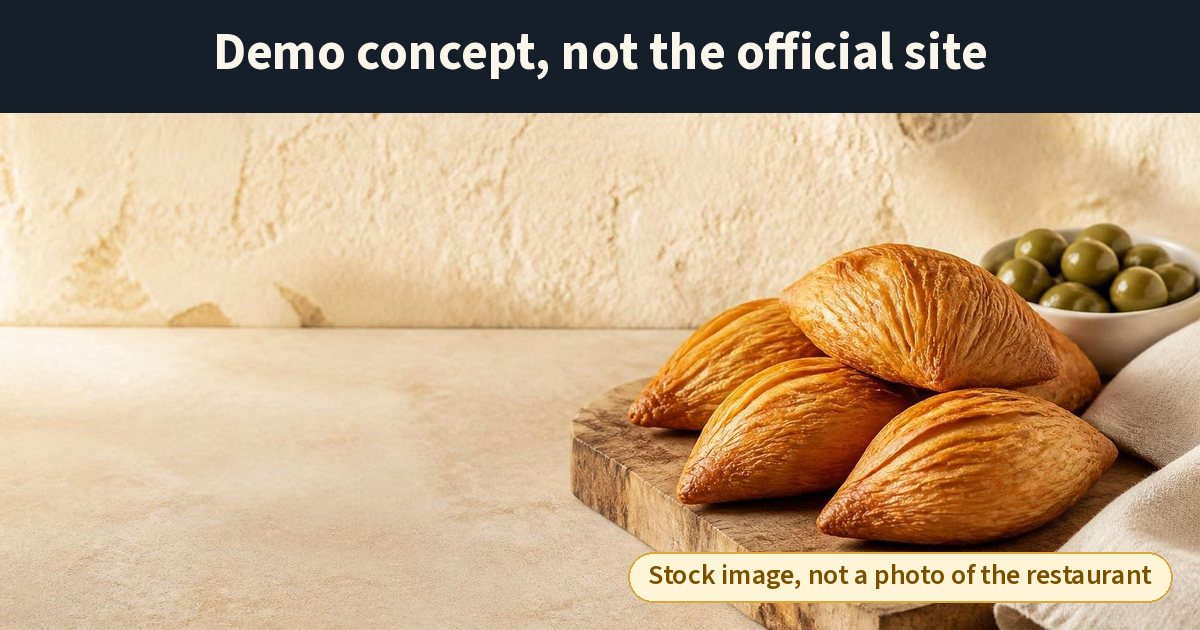
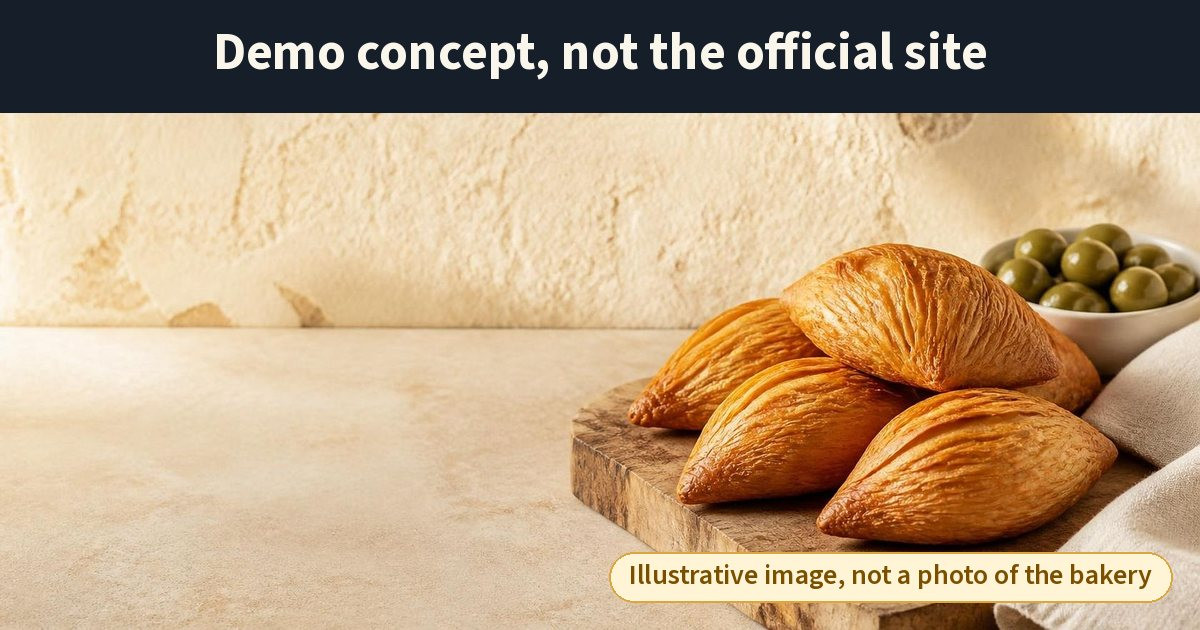
Label demo images as illustrative

Changed region(s): [[0.4933, 0.8746, 0.9558, 0.9651]]

diff --git a/index.html b/index.html
@@ -15,17 +15,17 @@
   <meta property="og:image:type" content="image/jpeg">
   <meta property="og:image:width" content="1200">
   <meta property="og:image:height" content="630">
-  <meta property="og:image:alt" content="Demo concept, not the official site. Golden, flaky diamond-shaped pastizzi on a rustic wooden board (stock image, not a photo of the restaurant)">
+  <meta property="og:image:alt" content="Demo concept, not the official site. Golden, flaky diamond-shaped pastizzi on a rustic wooden board (illustrative image, not a photo of the bakery)">
   <meta name="twitter:card" content="summary_large_image">
   <meta name="twitter:title" content="Nannu&#39;s Pastizzi | Maltese Bakery in Meadowvale, Mississauga (demo concept)">
   <meta name="twitter:description" content="Demo concept website for Nannu&#39;s Pastizzi, a Maltese bakery in Meadowvale, Mississauga — not the official site. Pastizzi, qassatat and Maltese sweets.">
   <meta name="twitter:image" content="https://mikelagumbay22.github.io/nannus-pastizzi-demo/img/og-image.jpg">
-  <meta name="twitter:image:alt" content="Demo concept, not the official site. Golden, flaky diamond-shaped pastizzi on a rustic wooden board (stock image, not a photo of the restaurant)">
+  <meta name="twitter:image:alt" content="Demo concept, not the official site. Golden, flaky diamond-shaped pastizzi on a rustic wooden board (illustrative image, not a photo of the bakery)">
   <meta name="robots" content="noindex, nofollow">
   <meta name="theme-color" content="#FBF6EC">
   <link rel="preload" href="fonts/fraunces-normal-latin.woff2" as="font" type="font/woff2" crossorigin>
   <link rel="preload" href="fonts/sourcesans3-normal-latin.woff2" as="font" type="font/woff2" crossorigin>
-  <link rel="stylesheet" href="css/site.css?v=4214463a">
+  <link rel="stylesheet" href="css/site.css?v=e4422915">
   <link rel="icon" href="img/favicon.ico" sizes="any">
   <link rel="icon" type="image/png" sizes="512x512" href="img/favicon-512.png">
   <link rel="apple-touch-icon" href="img/apple-touch-icon.png">
@@ -78,7 +78,7 @@
 
 <section class="hero" aria-labelledby="hero-title">
   <div class="hero__media">
-    <div class="media media--hero" style="--focus: 72% 60%; --focus-md: 45% 60%;"><span class="ph-badge stock-badge">Stock image, not a photo of the restaurant</span>
+    <div class="media media--hero" style="--focus: 72% 60%; --focus-md: 45% 60%;"><span class="ph-badge image-badge">Illustrative image, not a photo of the bakery</span>
   <img src="img/hero-800.webp" srcset="img/hero-480.webp 480w, img/hero-800.webp 800w, img/hero-1200.webp 1200w, img/hero-1600.webp 1600w" sizes="(min-width: 900px) 100vw, 92vw" width="1920" height="1080" alt="Golden, flaky diamond-shaped pastizzi on a rustic wooden board with a bowl of green olives" fetchpriority="high" decoding="async">
 </div>
   </div>
@@ -114,7 +114,7 @@
       <a class="text-link" href="about.html">Meet the Family<svg viewBox="0 0 24 24" fill="none" stroke="currentColor" stroke-width="1.8" stroke-linecap="round" stroke-linejoin="round" aria-hidden="true" focusable="false"><path d="M5 12h14M13 6l6 6-6 6"/></svg></a>
     </div>
     <div class="teaser-media">
-      <div class="media "><span class="ph-badge stock-badge">Stock image, not a photo of the restaurant</span>
+      <div class="media "><span class="ph-badge image-badge">Illustrative image, not a photo of the bakery</span>
   <img src="img/counter-800.webp" srcset="img/counter-480.webp 480w, img/counter-800.webp 800w, img/counter-1200.webp 1200w, img/counter-1456.webp 1456w" sizes="(min-width: 900px) 520px, 92vw" width="1456" height="1088" alt="A warm bakery counter with a glass display case of golden pastries and savoury pies" loading="lazy" decoding="async">
 </div>
     </div>
@@ -130,7 +130,7 @@
     </div>
     <ul class="dish-grid">
       <li class="dish-card">
-        <div class="media dish-card__media"><span class="ph-badge stock-badge">Stock image, not a photo of the restaurant</span>
+        <div class="media dish-card__media"><span class="ph-badge image-badge">Illustrative image, not a photo of the bakery</span>
   <img src="img/pastizzi-800.webp" srcset="img/pastizzi-480.webp 480w, img/pastizzi-800.webp 800w, img/pastizzi-1200.webp 1200w, img/pastizzi-1456.webp 1456w" sizes="(min-width: 900px) 360px, (min-width: 640px) 46vw, 92vw" width="1456" height="1088" alt="A plate of flaky Maltese pastizzi, one broken open to show ricotta and another with mushy pea filling" loading="lazy" decoding="async">
 </div>
         <div class="dish-card__body">
@@ -139,7 +139,7 @@
         </div>
       </li>
       <li class="dish-card">
-        <div class="media dish-card__media"><span class="ph-badge stock-badge">Stock image, not a photo of the restaurant</span>
+        <div class="media dish-card__media"><span class="ph-badge image-badge">Illustrative image, not a photo of the bakery</span>
   <img src="img/pastries-800.webp" srcset="img/pastries-480.webp 480w, img/pastries-800.webp 800w, img/pastries-1200.webp 1200w" sizes="(min-width: 900px) 360px, (min-width: 640px) 46vw, 92vw" width="1280" height="956" alt="Assorted Maltese pastries: qassatat, ricotta cannoli, date imqaret and pastizzi dusted with icing sugar" loading="lazy" decoding="async">
 </div>
         <div class="dish-card__body">
@@ -148,7 +148,7 @@
         </div>
       </li>
       <li class="dish-card">
-        <div class="media dish-card__media"><span class="ph-badge stock-badge">Stock image, not a photo of the restaurant</span>
+        <div class="media dish-card__media"><span class="ph-badge image-badge">Illustrative image, not a photo of the bakery</span>
   <img src="img/coffee-800.webp" srcset="img/coffee-480.webp 480w, img/coffee-800.webp 800w, img/coffee-1200.webp 1200w, img/coffee-1456.webp 1456w" sizes="(min-width: 900px) 360px, (min-width: 640px) 46vw, 92vw" width="1456" height="1088" alt="A cappuccino beside a single flaky pastizz on a rustic wooden café table" loading="lazy" decoding="async">
 </div>
         <div class="dish-card__body">
@@ -269,6 +269,6 @@
   <a class="btn btn--ghost" href="https://www.google.com/maps/search/?api=1&amp;query=Nannu%27s+Pastizzi%2C+6981+Millcreek+Dr%2C+Unit+1%2C+Mississauga%2C+ON+L5N+6B8&amp;query_place_id=ChIJreo7OGBqK4gRqdLR0AU75BI" target="_blank" rel="noopener"><svg viewBox="0 0 24 24" fill="none" stroke="currentColor" stroke-width="1.8" stroke-linecap="round" stroke-linejoin="round" aria-hidden="true" focusable="false"><path d="M20 10c0 6-8 12-8 12S4 16 4 10a8 8 0 0 1 16 0z"/><circle cx="12" cy="10" r="3"/></svg>Directions<span class="visually-hidden"> (opens Google Maps in a new tab)</span></a>
   <a class="btn btn--ghost" href="menu.html"><svg viewBox="0 0 24 24" fill="none" stroke="currentColor" stroke-width="1.8" stroke-linecap="round" stroke-linejoin="round" aria-hidden="true" focusable="false"><path d="M4 4.5A1.5 1.5 0 0 1 5.5 3H19v15H5.5A1.5 1.5 0 0 0 4 19.5z"/><path d="M4 19.5A1.5 1.5 0 0 0 5.5 21H19v-3M8 7h7M8 10.5h5"/></svg>Menu</a>
 </nav>
-<script src="js/site.js?v=4214463a" defer></script>
+<script src="js/site.js?v=e4422915" defer></script>
 </body>
 </html>

diff --git a/menu.html b/menu.html
@@ -15,17 +15,17 @@
   <meta property="og:image:type" content="image/jpeg">
   <meta property="og:image:width" content="1200">
   <meta property="og:image:height" content="630">
-  <meta property="og:image:alt" content="Demo concept, not the official site. Golden, flaky diamond-shaped pastizzi on a rustic wooden board (stock image, not a photo of the restaurant)">
+  <meta property="og:image:alt" content="Demo concept, not the official site. Golden, flaky diamond-shaped pastizzi on a rustic wooden board (illustrative image, not a photo of the bakery)">
   <meta name="twitter:card" content="summary_large_image">
   <meta name="twitter:title" content="Menu | Pastizzi, Qassatat &amp; Maltese Eats | Nannu&#39;s Pastizzi (demo concept)">
   <meta name="twitter:description" content="Demo concept website for Nannu&#39;s Pastizzi, a Maltese bakery in Meadowvale, Mississauga — not the official site. Sample menu and prices.">
   <meta name="twitter:image" content="https://mikelagumbay22.github.io/nannus-pastizzi-demo/img/og-image.jpg">
-  <meta name="twitter:image:alt" content="Demo concept, not the official site. Golden, flaky diamond-shaped pastizzi on a rustic wooden board (stock image, not a photo of the restaurant)">
+  <meta name="twitter:image:alt" content="Demo concept, not the official site. Golden, flaky diamond-shaped pastizzi on a rustic wooden board (illustrative image, not a photo of the bakery)">
   <meta name="robots" content="noindex, nofollow">
   <meta name="theme-color" content="#FBF6EC">
   <link rel="preload" href="fonts/fraunces-normal-latin.woff2" as="font" type="font/woff2" crossorigin>
   <link rel="preload" href="fonts/sourcesans3-normal-latin.woff2" as="font" type="font/woff2" crossorigin>
-  <link rel="stylesheet" href="css/site.css?v=4214463a">
+  <link rel="stylesheet" href="css/site.css?v=e4422915">
   <link rel="icon" href="img/favicon.ico" sizes="any">
   <link rel="icon" type="image/png" sizes="512x512" href="img/favicon-512.png">
   <link rel="apple-touch-icon" href="img/apple-touch-icon.png">
@@ -385,19 +385,19 @@
   <div class="container">
     <div class="section-head section-head--center">
       <p class="eyebrow">From the Oven</p>
-      <h2 id="gallery-title">A Taste of Malta</h2><p class="sample-note">Stock images for this demo, not photos of the restaurant or its food.</p>
+      <h2 id="gallery-title">A Taste of Malta</h2><p class="sample-note">Illustrative images for this demo, not photos of the bakery or its food.</p>
     </div>
     <ul class="gallery">
-      <li><div class="media "><span class="ph-badge stock-badge">Stock image, not a photo of the restaurant</span>
+      <li><div class="media "><span class="ph-badge image-badge">Illustrative image, not a photo of the bakery</span>
   <img src="img/pastizzi-800.webp" srcset="img/pastizzi-480.webp 480w, img/pastizzi-800.webp 800w, img/pastizzi-1200.webp 1200w, img/pastizzi-1456.webp 1456w" sizes="(min-width: 1080px) 280px, (min-width: 640px) 46vw, 92vw" width="1456" height="1088" alt="A plate of flaky Maltese pastizzi, one broken open to show ricotta and another with mushy pea filling" loading="lazy" decoding="async">
 </div></li>
-      <li><div class="media "><span class="ph-badge stock-badge">Stock image, not a photo of the restaurant</span>
+      <li><div class="media "><span class="ph-badge image-badge">Illustrative image, not a photo of the bakery</span>
   <img src="img/pastries-800.webp" srcset="img/pastries-480.webp 480w, img/pastries-800.webp 800w, img/pastries-1200.webp 1200w" sizes="(min-width: 1080px) 280px, (min-width: 640px) 46vw, 92vw" width="1280" height="956" alt="Assorted Maltese pastries: qassatat, ricotta cannoli, date imqaret and pastizzi dusted with icing sugar" loading="lazy" decoding="async">
 </div></li>
-      <li><div class="media "><span class="ph-badge stock-badge">Stock image, not a photo of the restaurant</span>
+      <li><div class="media "><span class="ph-badge image-badge">Illustrative image, not a photo of the bakery</span>
   <img src="img/coffee-800.webp" srcset="img/coffee-480.webp 480w, img/coffee-800.webp 800w, img/coffee-1200.webp 1200w, img/coffee-1456.webp 1456w" sizes="(min-width: 1080px) 280px, (min-width: 640px) 46vw, 92vw" width="1456" height="1088" alt="A cappuccino beside a single flaky pastizz on a rustic wooden café table" loading="lazy" decoding="async">
 </div></li>
-      <li><div class="media "><span class="ph-badge stock-badge">Stock image, not a photo of the restaurant</span>
+      <li><div class="media "><span class="ph-badge image-badge">Illustrative image, not a photo of the bakery</span>
   <img src="img/counter-800.webp" srcset="img/counter-480.webp 480w, img/counter-800.webp 800w, img/counter-1200.webp 1200w, img/counter-1456.webp 1456w" sizes="(min-width: 1080px) 280px, (min-width: 640px) 46vw, 92vw" width="1456" height="1088" alt="A warm bakery counter with a glass display case of golden pastries and savoury pies" loading="lazy" decoding="async">
 </div></li>
     </ul>
@@ -459,6 +459,6 @@
   <a class="btn btn--ghost" href="https://www.google.com/maps/search/?api=1&amp;query=Nannu%27s+Pastizzi%2C+6981+Millcreek+Dr%2C+Unit+1%2C+Mississauga%2C+ON+L5N+6B8&amp;query_place_id=ChIJreo7OGBqK4gRqdLR0AU75BI" target="_blank" rel="noopener"><svg viewBox="0 0 24 24" fill="none" stroke="currentColor" stroke-width="1.8" stroke-linecap="round" stroke-linejoin="round" aria-hidden="true" focusable="false"><path d="M20 10c0 6-8 12-8 12S4 16 4 10a8 8 0 0 1 16 0z"/><circle cx="12" cy="10" r="3"/></svg>Directions<span class="visually-hidden"> (opens Google Maps in a new tab)</span></a>
   <a class="btn btn--ghost" href="menu.html"><svg viewBox="0 0 24 24" fill="none" stroke="currentColor" stroke-width="1.8" stroke-linecap="round" stroke-linejoin="round" aria-hidden="true" focusable="false"><path d="M4 4.5A1.5 1.5 0 0 1 5.5 3H19v15H5.5A1.5 1.5 0 0 0 4 19.5z"/><path d="M4 19.5A1.5 1.5 0 0 0 5.5 21H19v-3M8 7h7M8 10.5h5"/></svg>Menu</a>
 </nav>
-<script src="js/site.js?v=4214463a" defer></script>
+<script src="js/site.js?v=e4422915" defer></script>
 </body>
 </html>

diff --git a/about.html b/about.html
@@ -15,17 +15,17 @@
   <meta property="og:image:type" content="image/jpeg">
   <meta property="og:image:width" content="1200">
   <meta property="og:image:height" content="630">
-  <meta property="og:image:alt" content="Demo concept, not the official site. Golden, flaky diamond-shaped pastizzi on a rustic wooden board (stock image, not a photo of the restaurant)">
+  <meta property="og:image:alt" content="Demo concept, not the official site. Golden, flaky diamond-shaped pastizzi on a rustic wooden board (illustrative image, not a photo of the bakery)">
   <meta name="twitter:card" content="summary_large_image">
   <meta name="twitter:title" content="About Nannu&#39;s Pastizzi | Family Maltese Bakery, Mississauga (demo concept)">
   <meta name="twitter:description" content="Demo concept website for Nannu&#39;s Pastizzi, a Maltese bakery in Meadowvale, Mississauga — not the official site. The family story behind the name.">
   <meta name="twitter:image" content="https://mikelagumbay22.github.io/nannus-pastizzi-demo/img/og-image.jpg">
-  <meta name="twitter:image:alt" content="Demo concept, not the official site. Golden, flaky diamond-shaped pastizzi on a rustic wooden board (stock image, not a photo of the restaurant)">
+  <meta name="twitter:image:alt" content="Demo concept, not the official site. Golden, flaky diamond-shaped pastizzi on a rustic wooden board (illustrative image, not a photo of the bakery)">
   <meta name="robots" content="noindex, nofollow">
   <meta name="theme-color" content="#FBF6EC">
   <link rel="preload" href="fonts/fraunces-normal-latin.woff2" as="font" type="font/woff2" crossorigin>
   <link rel="preload" href="fonts/sourcesans3-normal-latin.woff2" as="font" type="font/woff2" crossorigin>
-  <link rel="stylesheet" href="css/site.css?v=4214463a">
+  <link rel="stylesheet" href="css/site.css?v=e4422915">
   <link rel="icon" href="img/favicon.ico" sizes="any">
   <link rel="icon" type="image/png" sizes="512x512" href="img/favicon-512.png">
   <link rel="apple-touch-icon" href="img/apple-touch-icon.png">
@@ -108,7 +108,7 @@
     <div>
       <h2 id="about-s1">What Are Pastizzi?</h2><p class="lead">Pastizzi (one is a pastizz) are Malta&#39;s best-loved snack: savoury pastries made from thin, flaky, many-layered dough, folded around a warm filling. The two classic fillings are creamy ricotta and a savoury pea filling. Across Malta they&#39;re sold in small pastry shops called pastizzeriji, and they&#39;re traditionally enjoyed hot, often with a cup of tea.</p>
     </div>
-    <div class="teaser-media"><div class="media "><span class="ph-badge stock-badge">Stock image, not a photo of the restaurant</span>
+    <div class="teaser-media"><div class="media "><span class="ph-badge image-badge">Illustrative image, not a photo of the bakery</span>
   <img src="img/pastizzi-800.webp" srcset="img/pastizzi-480.webp 480w, img/pastizzi-800.webp 800w, img/pastizzi-1200.webp 1200w, img/pastizzi-1456.webp 1456w" sizes="(min-width: 900px) 520px, 92vw" width="1456" height="1088" alt="A plate of flaky Maltese pastizzi, one broken open to show ricotta and another with mushy pea filling" loading="lazy" decoding="async">
 </div></div>
   </div>
@@ -179,6 +179,6 @@
   <a class="btn btn--ghost" href="https://www.google.com/maps/search/?api=1&amp;query=Nannu%27s+Pastizzi%2C+6981+Millcreek+Dr%2C+Unit+1%2C+Mississauga%2C+ON+L5N+6B8&amp;query_place_id=ChIJreo7OGBqK4gRqdLR0AU75BI" target="_blank" rel="noopener"><svg viewBox="0 0 24 24" fill="none" stroke="currentColor" stroke-width="1.8" stroke-linecap="round" stroke-linejoin="round" aria-hidden="true" focusable="false"><path d="M20 10c0 6-8 12-8 12S4 16 4 10a8 8 0 0 1 16 0z"/><circle cx="12" cy="10" r="3"/></svg>Directions<span class="visually-hidden"> (opens Google Maps in a new tab)</span></a>
   <a class="btn btn--ghost" href="menu.html"><svg viewBox="0 0 24 24" fill="none" stroke="currentColor" stroke-width="1.8" stroke-linecap="round" stroke-linejoin="round" aria-hidden="true" focusable="false"><path d="M4 4.5A1.5 1.5 0 0 1 5.5 3H19v15H5.5A1.5 1.5 0 0 0 4 19.5z"/><path d="M4 19.5A1.5 1.5 0 0 0 5.5 21H19v-3M8 7h7M8 10.5h5"/></svg>Menu</a>
 </nav>
-<script src="js/site.js?v=4214463a" defer></script>
+<script src="js/site.js?v=e4422915" defer></script>
 </body>
 </html>

diff --git a/reviews.html b/reviews.html
@@ -15,17 +15,17 @@
   <meta property="og:image:type" content="image/jpeg">
   <meta property="og:image:width" content="1200">
   <meta property="og:image:height" content="630">
-  <meta property="og:image:alt" content="Demo concept, not the official site. Golden, flaky diamond-shaped pastizzi on a rustic wooden board (stock image, not a photo of the restaurant)">
+  <meta property="og:image:alt" content="Demo concept, not the official site. Golden, flaky diamond-shaped pastizzi on a rustic wooden board (illustrative image, not a photo of the bakery)">
   <meta name="twitter:card" content="summary_large_image">
   <meta name="twitter:title" content="Reviews | Nannu&#39;s Pastizzi, Maltese Bakery in Mississauga (demo concept)">
   <meta name="twitter:description" content="Demo concept website for Nannu&#39;s Pastizzi, a Maltese bakery in Meadowvale, Mississauga — not the official site. What guests say about the pastizzi.">
   <meta name="twitter:image" content="https://mikelagumbay22.github.io/nannus-pastizzi-demo/img/og-image.jpg">
-  <meta name="twitter:image:alt" content="Demo concept, not the official site. Golden, flaky diamond-shaped pastizzi on a rustic wooden board (stock image, not a photo of the restaurant)">
+  <meta name="twitter:image:alt" content="Demo concept, not the official site. Golden, flaky diamond-shaped pastizzi on a rustic wooden board (illustrative image, not a photo of the bakery)">
   <meta name="robots" content="noindex, nofollow">
   <meta name="theme-color" content="#FBF6EC">
   <link rel="preload" href="fonts/fraunces-normal-latin.woff2" as="font" type="font/woff2" crossorigin>
   <link rel="preload" href="fonts/sourcesans3-normal-latin.woff2" as="font" type="font/woff2" crossorigin>
-  <link rel="stylesheet" href="css/site.css?v=4214463a">
+  <link rel="stylesheet" href="css/site.css?v=e4422915">
   <link rel="icon" href="img/favicon.ico" sizes="any">
   <link rel="icon" type="image/png" sizes="512x512" href="img/favicon-512.png">
   <link rel="apple-touch-icon" href="img/apple-touch-icon.png">
@@ -170,6 +170,6 @@
   <a class="btn btn--ghost" href="https://www.google.com/maps/search/?api=1&amp;query=Nannu%27s+Pastizzi%2C+6981+Millcreek+Dr%2C+Unit+1%2C+Mississauga%2C+ON+L5N+6B8&amp;query_place_id=ChIJreo7OGBqK4gRqdLR0AU75BI" target="_blank" rel="noopener"><svg viewBox="0 0 24 24" fill="none" stroke="currentColor" stroke-width="1.8" stroke-linecap="round" stroke-linejoin="round" aria-hidden="true" focusable="false"><path d="M20 10c0 6-8 12-8 12S4 16 4 10a8 8 0 0 1 16 0z"/><circle cx="12" cy="10" r="3"/></svg>Directions<span class="visually-hidden"> (opens Google Maps in a new tab)</span></a>
   <a class="btn btn--ghost" href="menu.html"><svg viewBox="0 0 24 24" fill="none" stroke="currentColor" stroke-width="1.8" stroke-linecap="round" stroke-linejoin="round" aria-hidden="true" focusable="false"><path d="M4 4.5A1.5 1.5 0 0 1 5.5 3H19v15H5.5A1.5 1.5 0 0 0 4 19.5z"/><path d="M4 19.5A1.5 1.5 0 0 0 5.5 21H19v-3M8 7h7M8 10.5h5"/></svg>Menu</a>
 </nav>
-<script src="js/site.js?v=4214463a" defer></script>
+<script src="js/site.js?v=e4422915" defer></script>
 </body>
 </html>

diff --git a/visit.html b/visit.html
@@ -15,17 +15,17 @@
   <meta property="og:image:type" content="image/jpeg">
   <meta property="og:image:width" content="1200">
   <meta property="og:image:height" content="630">
-  <meta property="og:image:alt" content="Demo concept, not the official site. Golden, flaky diamond-shaped pastizzi on a rustic wooden board (stock image, not a photo of the restaurant)">
+  <meta property="og:image:alt" content="Demo concept, not the official site. Golden, flaky diamond-shaped pastizzi on a rustic wooden board (illustrative image, not a photo of the bakery)">
   <meta name="twitter:card" content="summary_large_image">
   <meta name="twitter:title" content="Visit Nannu&#39;s Pastizzi | Hours &amp; Directions, Meadowvale (demo concept)">
   <meta name="twitter:description" content="Demo concept website for Nannu&#39;s Pastizzi, a Maltese bakery in Meadowvale, Mississauga — not the official site. Hours, map and directions.">
   <meta name="twitter:image" content="https://mikelagumbay22.github.io/nannus-pastizzi-demo/img/og-image.jpg">
-  <meta name="twitter:image:alt" content="Demo concept, not the official site. Golden, flaky diamond-shaped pastizzi on a rustic wooden board (stock image, not a photo of the restaurant)">
+  <meta name="twitter:image:alt" content="Demo concept, not the official site. Golden, flaky diamond-shaped pastizzi on a rustic wooden board (illustrative image, not a photo of the bakery)">
   <meta name="robots" content="noindex, nofollow">
   <meta name="theme-color" content="#FBF6EC">
   <link rel="preload" href="fonts/fraunces-normal-latin.woff2" as="font" type="font/woff2" crossorigin>
   <link rel="preload" href="fonts/sourcesans3-normal-latin.woff2" as="font" type="font/woff2" crossorigin>
-  <link rel="stylesheet" href="css/site.css?v=4214463a">
+  <link rel="stylesheet" href="css/site.css?v=e4422915">
   <link rel="icon" href="img/favicon.ico" sizes="any">
   <link rel="icon" type="image/png" sizes="512x512" href="img/favicon-512.png">
   <link rel="apple-touch-icon" href="img/apple-touch-icon.png">
@@ -202,6 +202,6 @@
   <a class="btn btn--ghost" href="https://www.google.com/maps/search/?api=1&amp;query=Nannu%27s+Pastizzi%2C+6981+Millcreek+Dr%2C+Unit+1%2C+Mississauga%2C+ON+L5N+6B8&amp;query_place_id=ChIJreo7OGBqK4gRqdLR0AU75BI" target="_blank" rel="noopener"><svg viewBox="0 0 24 24" fill="none" stroke="currentColor" stroke-width="1.8" stroke-linecap="round" stroke-linejoin="round" aria-hidden="true" focusable="false"><path d="M20 10c0 6-8 12-8 12S4 16 4 10a8 8 0 0 1 16 0z"/><circle cx="12" cy="10" r="3"/></svg>Directions<span class="visually-hidden"> (opens Google Maps in a new tab)</span></a>
   <a class="btn btn--ghost" href="menu.html"><svg viewBox="0 0 24 24" fill="none" stroke="currentColor" stroke-width="1.8" stroke-linecap="round" stroke-linejoin="round" aria-hidden="true" focusable="false"><path d="M4 4.5A1.5 1.5 0 0 1 5.5 3H19v15H5.5A1.5 1.5 0 0 0 4 19.5z"/><path d="M4 19.5A1.5 1.5 0 0 0 5.5 21H19v-3M8 7h7M8 10.5h5"/></svg>Menu</a>
 </nav>
-<script src="js/site.js?v=4214463a" defer></script>
+<script src="js/site.js?v=e4422915" defer></script>
 </body>
 </html>

diff --git a/css/site.css b/css/site.css
@@ -125,7 +125,7 @@ a[href^="tel:"] { white-space: nowrap; }
   background: #fff4d6; color: #7a4f00; border: 1px dashed #d9a640; border-radius: 6px; padding: .05em .4em;
   font: 600 .82em/1.5 var(--font-body); font-style: normal; box-decoration-break: clone; -webkit-box-decoration-break: clone;
 }
-.media .stock-badge {
+.media .image-badge {
   position: absolute; right: .75rem; bottom: .75rem; z-index: 2; margin: 0; max-width: calc(100% - 1.5rem);
   text-transform: none; letter-spacing: .01em; font-size: .78rem; border-style: solid; text-align: right;
   box-shadow: 0 2px 8px rgba(22, 30, 42, .18);
@@ -190,7 +190,7 @@ a[href^="tel:"] { white-space: nowrap; }
 .hero__inner { padding-block: clamp(2rem, 6vw, 3rem) 1.5rem; }
 .hero__media { width: min(100% - 2.5rem, var(--container)); margin: 0 auto 2.5rem; }
 .media--hero { aspect-ratio: 16 / 10; border-radius: var(--radius-lg); }
-.media--hero .stock-badge { top: .75rem; bottom: auto; }
+.media--hero .image-badge { top: .75rem; bottom: auto; }
 .hero__copy { max-width: 36rem; }
 .hero .lead { max-width: 34rem; }
 .hero__call { margin: 1.1rem 0 0; }
@@ -395,7 +395,7 @@ a[href^="tel:"] { white-space: nowrap; }
   .media--hero img { object-position: var(--focus, 72% 60%); }
   .hero__media::after { content: ""; position: absolute; inset: 0; z-index: 1; pointer-events: none;
     background: linear-gradient(90deg, color-mix(in srgb, var(--color-bg) 92%, transparent) 0%, color-mix(in srgb, var(--color-bg) 80%, transparent) 38%, transparent 62%); }
-  .media--hero .stock-badge { top: auto; bottom: 1.25rem; right: 1.5rem; }
+  .media--hero .image-badge { top: auto; bottom: 1.25rem; right: 1.5rem; }
   .hero__inner { position: relative; z-index: 2; align-self: center; padding-block: 4rem; }
   .hero__copy { max-width: 33rem; }
   .teaser-grid { grid-template-columns: 1.05fr .95fr; gap: 4rem; }
